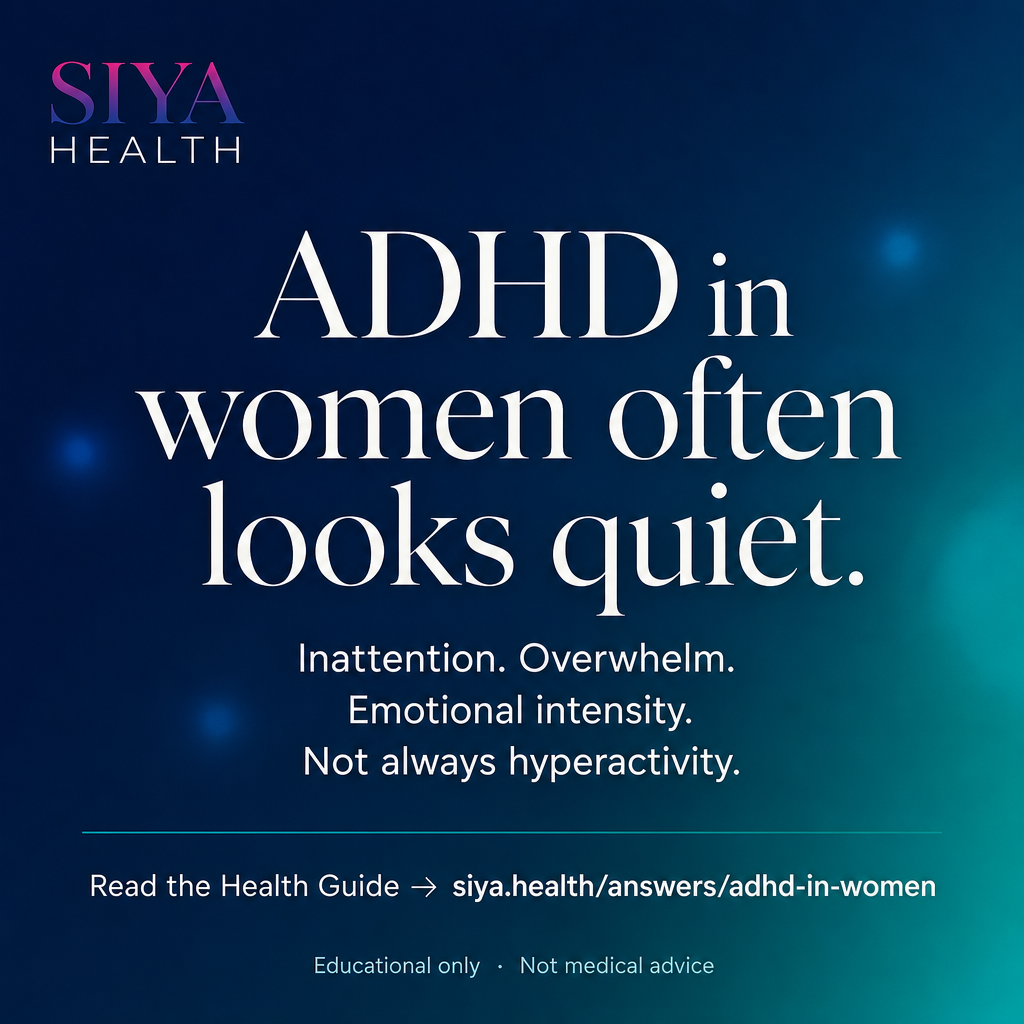
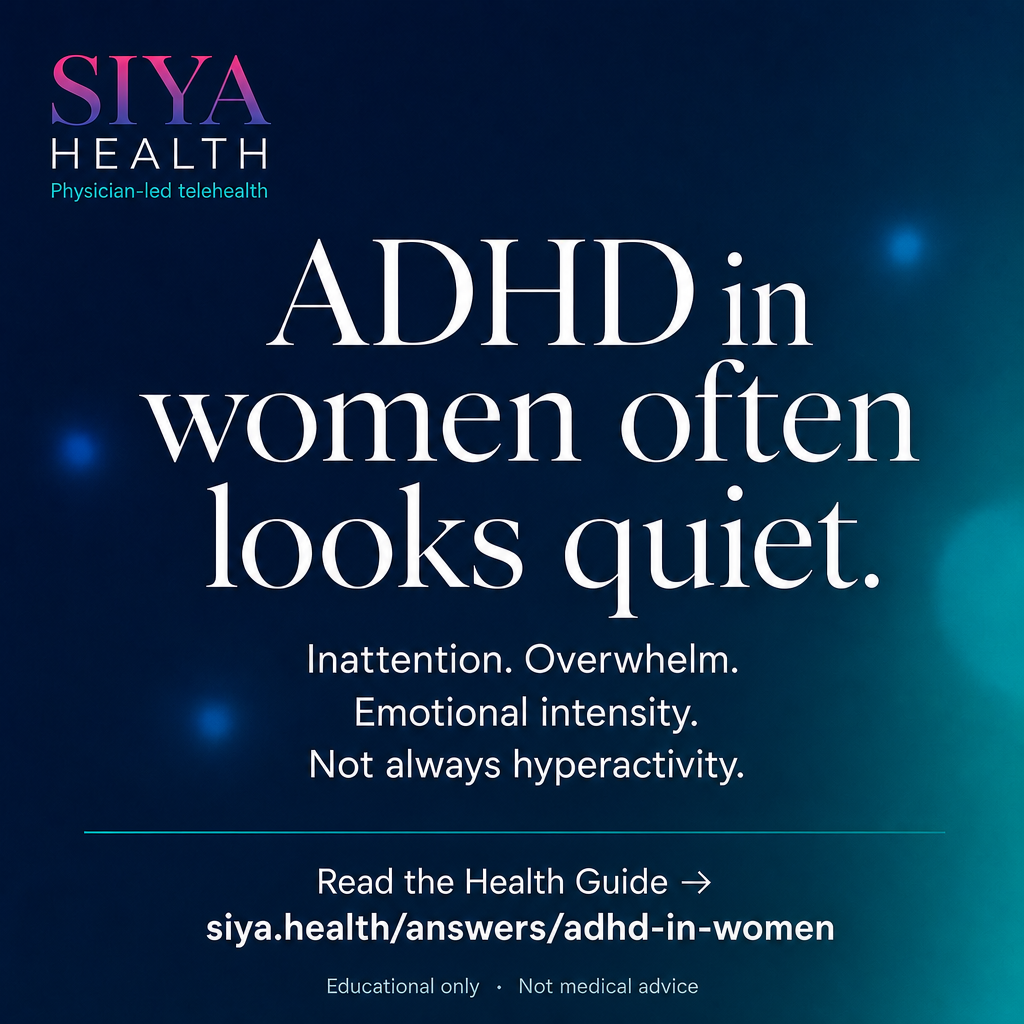
fix(siya-health): align ADHD-in-women static post to SIYA standards
Refine Zoho Common package CTAs and compliance copy: exact Talk to a
Clinician + CarePatron, Book ADHD Evaluation, Free ADHD Screening with
screening≠diagnosis, medication-never-guaranteed, physician-led framing.
Regenerate square/landscape creatives; remove banned Start Here / when
you're ready phrasing from hooks.

diff --git a/apps/siya-health/zoho-common/static-posts/adhd-in-women/CAPTIONS.md b/apps/siya-health/zoho-common/static-posts/adhd-in-women/CAPTIONS.md
@@ -3,22 +3,26 @@
 **Topic:** How ADHD presents differently in women  
 **Canonical Health Guide:** https://siya.health/answers/adhd-in-women  
 **Brand:** Siya Health · physician-led telehealth  
+**Standards:** Aligned to `docs/SIYA-STANDARDS.md` + `data/site-standards.mjs` (2026-07-22 refine)  
 **Status:** Ready for Zoho WorkDrive Common upload  
-**Created:** 2026-07-22
+**Created:** 2026-07-22 · **Refined:** 2026-07-22
 
 ## Creatives
 
 | File | Format | Use |
 |------|--------|-----|
-| `adhd-in-women-static-1080.png` | 1024×1024 (Instagram square) | Instagram feed, Facebook square, Stories base |
-| `adhd-in-women-static-1920x1080.png` | 1536×1024 (landscape) | LinkedIn, Facebook landscape, X/Twitter |
+| `adhd-in-women-static-1080.png` | Square (Instagram / FB) | Feed, Stories base |
+| `adhd-in-women-static-1920x1080.png` | Landscape | LinkedIn, Facebook landscape, X |
 
-## On-image copy
+## On-image copy (locked)
 
+**Brand:** SIYA HEALTH · Physician-led telehealth  
 **Headline:** ADHD in women often looks quiet.  
 **Support:** Inattention. Overwhelm. Emotional intensity. Not always hyperactivity.  
-**CTA:** Read the Health Guide → siya.health/answers/adhd-in-women  
+**Primary CTA (education):** Read the Health Guide → siya.health/answers/adhd-in-women  
 **Disclaimer:** Educational only · Not medical advice
+
+Do **not** put booking CTAs, pricing, Siya Circle, or medication claims on the creative.
 
 ---
 
@@ -30,12 +34,14 @@ Not the stereotypical hyperactivity — more often daydreaming, disorganization,
 
 Hormonal shifts, social expectations, and misattribution to anxiety or mood can delay recognition for years. Rejection sensitivity and internalized shame are common.
 
-Screening is not diagnosis. A structured evaluation with a licensed clinician explores childhood history, cross-setting patterns, and look-alikes — not an online quiz alone.
+**Screening is not diagnosis.** A structured evaluation with a licensed clinician explores childhood history, cross-setting patterns, and look-alikes — not an online quiz alone. Evaluation does not guarantee medication.
 
 Educational Health Guide (not personal medical advice):  
 https://siya.health/answers/adhd-in-women
 
-Talk to a clinician when you’re ready: https://siya.health/adhd-care
+Talk to a Clinician: https://book.carepatron.com/Siya-Health?p=X9PN3zKZR22FpD8jVPKsOA&i=sysv73e4  
+Book ADHD Evaluation / care overview: https://siya.health/adhd-care  
+Free ADHD Screening (screening is not diagnosis): https://siya.health/adhd-screening?start=asrs
 
 #AdultADHD #ADHDInWomen #InattentiveADHD #Telehealth #SiyaHealth #HealthGuide #WomensHealth
 
@@ -45,15 +51,17 @@ Talk to a clinician when you’re ready: https://siya.health/adhd-care
 
 ADHD in women is frequently under-recognized because it often presents as inattention, overwhelm, and emotional dysregulation — not obvious hyperactivity.
 
-Clinical and research themes that matter in patient education:
+Patient-education themes clinicians discuss:
 - Inattentive patterns can be mistaken for anxiety, burnout, or “just stress”
 - Hormonal transitions may change how symptoms show up
 - Social masking and high expectations can hide impairment until adulthood
 - Evaluation should still seek childhood developmental history, even when records are sparse
 
-Siya Health publishes free Health Guides for education only — not diagnosis or treatment advice.
+Siya Health is physician-led telehealth — not a psychiatry practice. Our Health Guides are for education only, not diagnosis or treatment advice.
 
-Read: https://siya.health/answers/adhd-in-women
+Read the Health Guide: https://siya.health/answers/adhd-in-women
+
+Talk to a Clinician: https://book.carepatron.com/Siya-Health?p=X9PN3zKZR22FpD8jVPKsOA&i=sysv73e4
 
 ---
 
@@ -61,8 +69,10 @@ Read: https://siya.health/answers/adhd-in-women
 
 ADHD in women often looks quiet — inattention, overwhelm, emotional intensity — not always hyperactivity.
 
-Learn what clinicians look for (educational only):  
+Read the Health Guide (educational only):  
 https://siya.health/answers/adhd-in-women
+
+Talk to a Clinician: https://book.carepatron.com/Siya-Health?p=X9PN3zKZR22FpD8jVPKsOA&i=sysv73e4
 
 ---
 
@@ -72,16 +82,25 @@ ADHD in women often looks quiet.
 
 Inattention. Overwhelm. Emotional intensity. Not always hyperactivity.
 
-Educational guide → https://siya.health/answers/adhd-in-women
+Health Guide → https://siya.health/answers/adhd-in-women  
+Talk to a Clinician → https://book.carepatron.com/Siya-Health?p=X9PN3zKZR22FpD8jVPKsOA&i=sysv73e4
 
 ---
 
-## Compliance notes (Siya standards)
+## Compliance notes (SIYA-STANDARDS)
 
-- Educational framing only — no diagnosis claims, no medication guarantees
-- CTA hierarchy: Health Guide link primary; “Talk to a Clinician” / ADHD care secondary
-- Do not imply quizzes = diagnosis
-- Prefer “licensed clinicians” / physician-led telehealth language
+| Rule | Application here |
+|------|------------------|
+| Education hub name | **Health Guides** (never “Answers Hub”) |
+| Creative primary CTA | Health Guide only — no booking on image |
+| Caption booking labels | Exact **Talk to a Clinician** + CarePatron `BOOKING_LINK` |
+| ADHD funnel label | **Book ADHD Evaluation** → `/adhd-care` (context link OK) |
+| Screening | **Free ADHD Screening** + *Screening is not diagnosis* |
+| Banned | Meet & Greet, Find the Right Starting Point, Start Here, “when you’re ready,” Join Waitlist, Book with {Name} |
+| Practice positioning | Physician-led telehealth · **not** psychiatry/psychology |
+| Medication | Never guaranteed; evaluation ≠ stimulant Rx |
+| Siya Circle | Not used in this post body/hero |
+| Quiz framing | Quizzes/screening ≠ diagnosis |
 
 ## Upload target
 

diff --git a/apps/siya-health/zoho-common/static-posts/adhd-in-women/SOCIAL-HOOKS.md b/apps/siya-health/zoho-common/static-posts/adhd-in-women/SOCIAL-HOOKS.md
@@ -1,44 +1,53 @@
 # Social hooks: ADHD in women
 
-Use for LinkedIn, Instagram statics/carousels, X, and ad creative. Link to `/answers/adhd-in-women`.
+**Standards-aligned** to `docs/SIYA-STANDARDS.md` / `data/site-standards.mjs`.  
+Canonical link: `/answers/adhd-in-women` (Health Guide).
 
 Companion creatives in this folder:
 - `adhd-in-women-static-1080.png`
 - `adhd-in-women-static-1920x1080.png`
 
-Full channel captions: `CAPTIONS.md`
+Full channel captions + booking URLs: `CAPTIONS.md`
+
+**CTA hierarchy for social:**
+1. Primary (education): **Read the Health Guide** → `/answers/adhd-in-women`
+2. Booking: **Talk to a Clinician** → CarePatron booking link
+3. ADHD context: **Book ADHD Evaluation** → `/adhd-care`
+4. Optional: **Free ADHD Screening** → `/adhd-screening?start=asrs` + *Screening is not diagnosis*
+
+Never use: Meet & Greet, Find the Right Starting Point, Start Here, Join Waitlist, “when you’re ready,” Book with {Name}, Siya Circle as post CTA.
 
 ---
 
 ## Hook 1 — Relatable
 
 **Headline:** ADHD in women often looks quiet.  
-**Body:** Inattention, overwhelm, and emotional intensity — not always hyperactivity. Many women are told it’s anxiety or “just stress” for years.  
-**CTA:** Free Health Guide → link
+**Body:** Inattention, overwhelm, and emotional intensity — not always hyperactivity. Many women are told it’s anxiety or “just stress” for years. Screening is not diagnosis.  
+**CTA:** Read the Health Guide · Talk to a Clinician
 
 ---
 
 ## Hook 2 — Myth bust
 
 **Headline:** Hyperactivity isn’t the only ADHD story.  
-**Body:** Inattentive presentation is common in women. Daydreaming, disorganization, and rejection sensitivity can fly under the radar until adulthood.  
-**CTA:** Read the 3-minute guide
+**Body:** Inattentive presentation is common in women. Daydreaming, disorganization, and rejection sensitivity can fly under the radar until adulthood. Evaluation does not guarantee medication.  
+**CTA:** Read the Health Guide
 
 ---
 
 ## Hook 3 — Patient-voice (forum-safe)
 
 **Headline:** “I wasn’t bouncing off walls — I was drowning quietly.”  
-**Body:** Late recognition is common when symptoms were masked as perfectionism, people-pleasing, or anxiety. Structured evaluation still matters.  
-**CTA:** ADHD in women — start here
+**Body:** Late recognition is common when symptoms were masked as perfectionism, people-pleasing, or anxiety. Structured evaluation with a licensed clinician still matters.  
+**CTA:** Read the Health Guide · Book ADHD Evaluation
 
 ---
 
 ## Hook 4 — Professional (clinician-facing)
 
 **Headline:** Screen for inattentive ADHD when adult women present with chronic overwhelm.  
-**Body:** Sex differences in presentation and referral bias delay care. History across settings beats stereotype checklists.  
-**CTA:** Siya Health Guide for patients
+**Body:** Sex differences in presentation and referral bias delay care. History across settings beats stereotype checklists. Siya Health is physician-led telehealth — not a psychiatry practice.  
+**CTA:** Share the Health Guide with patients
 
 ---
 
@@ -47,11 +56,11 @@ Full channel captions: `CAPTIONS.md`
 1. ADHD in women often looks quiet  
 2. Common themes: inattention, emotional dysregulation, time blindness, RSD  
 3. Why it’s missed: masking, anxiety labels, hormonal change  
-4. Screening ≠ diagnosis — clinician history + rule-outs  
-5. Health Guide · Talk to a Clinician · `/answers/adhd-in-women`
+4. Screening ≠ diagnosis — clinician history + rule-outs · medication never guaranteed  
+5. Read the Health Guide · Talk to a Clinician · `/answers/adhd-in-women`
 
 ---
 
 ## Hashtags (mix)
 
-`#AdultADHD #ADHDInWomen #InattentiveADHD #WomensHealth #Telehealth #ExecutiveFunction #SiyaHealth`
+`#AdultADHD #ADHDInWomen #InattentiveADHD #WomensHealth #Telehealth #HealthGuide #SiyaHealth`

diff --git a/apps/siya-health/docs/guides/adhd-in-women-SOCIAL-HOOKS.md b/apps/siya-health/docs/guides/adhd-in-women-SOCIAL-HOOKS.md
@@ -1,44 +1,43 @@
 # Social hooks: ADHD in women
 
-Use for LinkedIn, Instagram statics/carousels, X, and ad creative. Link to `/answers/adhd-in-women`.
+**Standards-aligned** companion to `zoho-common/static-posts/adhd-in-women/`.  
+Canonical Health Guide: `/answers/adhd-in-women`
 
-Companion creatives in this folder:
-- `adhd-in-women-static-1080.png`
-- `adhd-in-women-static-1920x1080.png`
+**CTA hierarchy:** Read the Health Guide (primary) → Talk to a Clinician (CarePatron) → Book ADHD Evaluation (`/adhd-care`) → optional Free ADHD Screening (`/adhd-screening?start=asrs`, screening is not diagnosis).
 
-Full channel captions: `CAPTIONS.md`
+Banned labels: Meet & Greet, Find the Right Starting Point, Start Here, Join Waitlist, “when you’re ready,” Book with {Name}.
 
 ---
 
 ## Hook 1 — Relatable
 
 **Headline:** ADHD in women often looks quiet.  
-**Body:** Inattention, overwhelm, and emotional intensity — not always hyperactivity. Many women are told it’s anxiety or “just stress” for years.  
-**CTA:** Free Health Guide → link
+**Body:** Inattention, overwhelm, and emotional intensity — not always hyperactivity. Many women are told it’s anxiety or “just stress” for years. Screening is not diagnosis.  
+**CTA:** Read the Health Guide · Talk to a Clinician
 
 ---
 
 ## Hook 2 — Myth bust
 
 **Headline:** Hyperactivity isn’t the only ADHD story.  
-**Body:** Inattentive presentation is common in women. Daydreaming, disorganization, and rejection sensitivity can fly under the radar until adulthood.  
-**CTA:** Read the 3-minute guide
+**Body:** Inattentive presentation is common in women. Daydreaming, disorganization, and rejection sensitivity can fly under the radar until adulthood. Evaluation does not guarantee medication.  
+**CTA:** Read the Health Guide
 
 ---
 
 ## Hook 3 — Patient-voice (forum-safe)
 
 **Headline:** “I wasn’t bouncing off walls — I was drowning quietly.”  
-**Body:** Late recognition is common when symptoms were masked as perfectionism, people-pleasing, or anxiety. Structured evaluation still matters.  
-**CTA:** ADHD in women — start here
+**Body:** Late recognition is common when symptoms were masked as perfectionism, people-pleasing, or anxiety. Structured evaluation with a licensed clinician still matters.  
+**CTA:** Read the Health Guide · Book ADHD Evaluation
 
 ---
 
 ## Hook 4 — Professional (clinician-facing)
 
 **Headline:** Screen for inattentive ADHD when adult women present with chronic overwhelm.  
-**Body:** Sex differences in presentation and referral bias delay care. History across settings beats stereotype checklists.  
-**CTA:** Siya Health Guide for patients
+**Body:** Sex differences in presentation and referral bias delay care. History across settings beats stereotype checklists. Siya Health is physician-led telehealth — not a psychiatry practice.  
+**CTA:** Share the Health Guide with patients
 
 ---
 
@@ -47,11 +46,11 @@ Full channel captions: `CAPTIONS.md`
 1. ADHD in women often looks quiet  
 2. Common themes: inattention, emotional dysregulation, time blindness, RSD  
 3. Why it’s missed: masking, anxiety labels, hormonal change  
-4. Screening ≠ diagnosis — clinician history + rule-outs  
-5. Health Guide · Talk to a Clinician · `/answers/adhd-in-women`
+4. Screening ≠ diagnosis — clinician history + rule-outs · medication never guaranteed  
+5. Read the Health Guide · Talk to a Clinician · `/answers/adhd-in-women`
 
 ---
 
 ## Hashtags (mix)
 
-`#AdultADHD #ADHDInWomen #InattentiveADHD #WomensHealth #Telehealth #ExecutiveFunction #SiyaHealth`
+`#AdultADHD #ADHDInWomen #InattentiveADHD #WomensHealth #Telehealth #HealthGuide #SiyaHealth`

diff --git a/apps/siya-health/zoho-common/README.md b/apps/siya-health/zoho-common/README.md
@@ -4,6 +4,16 @@ Staging folder for assets intended for the **Zoho WorkDrive Common** team folder
 
 Upload or sync contents of `static-posts/` into WorkDrive **Common → static-posts** (or the team’s preferred Common marketing path).
 
+## Standards
+
+All packages must follow `docs/SIYA-STANDARDS.md` and `data/site-standards.mjs`:
+
+- Education primary CTA = **Read the Health Guide** (on-image OK)
+- Booking labels = exact **Talk to a Clinician** (CarePatron) / ADHD funnel **Book ADHD Evaluation**
+- No Meet & Greet, Find the Right Starting Point, Start Here, Join Waitlist, Book with {Name}
+- Physician-led telehealth · not psychiatry · screening ≠ diagnosis · medication never guaranteed
+- Siya Circle never as post primary CTA
+
 ## Layout
 
 ```
